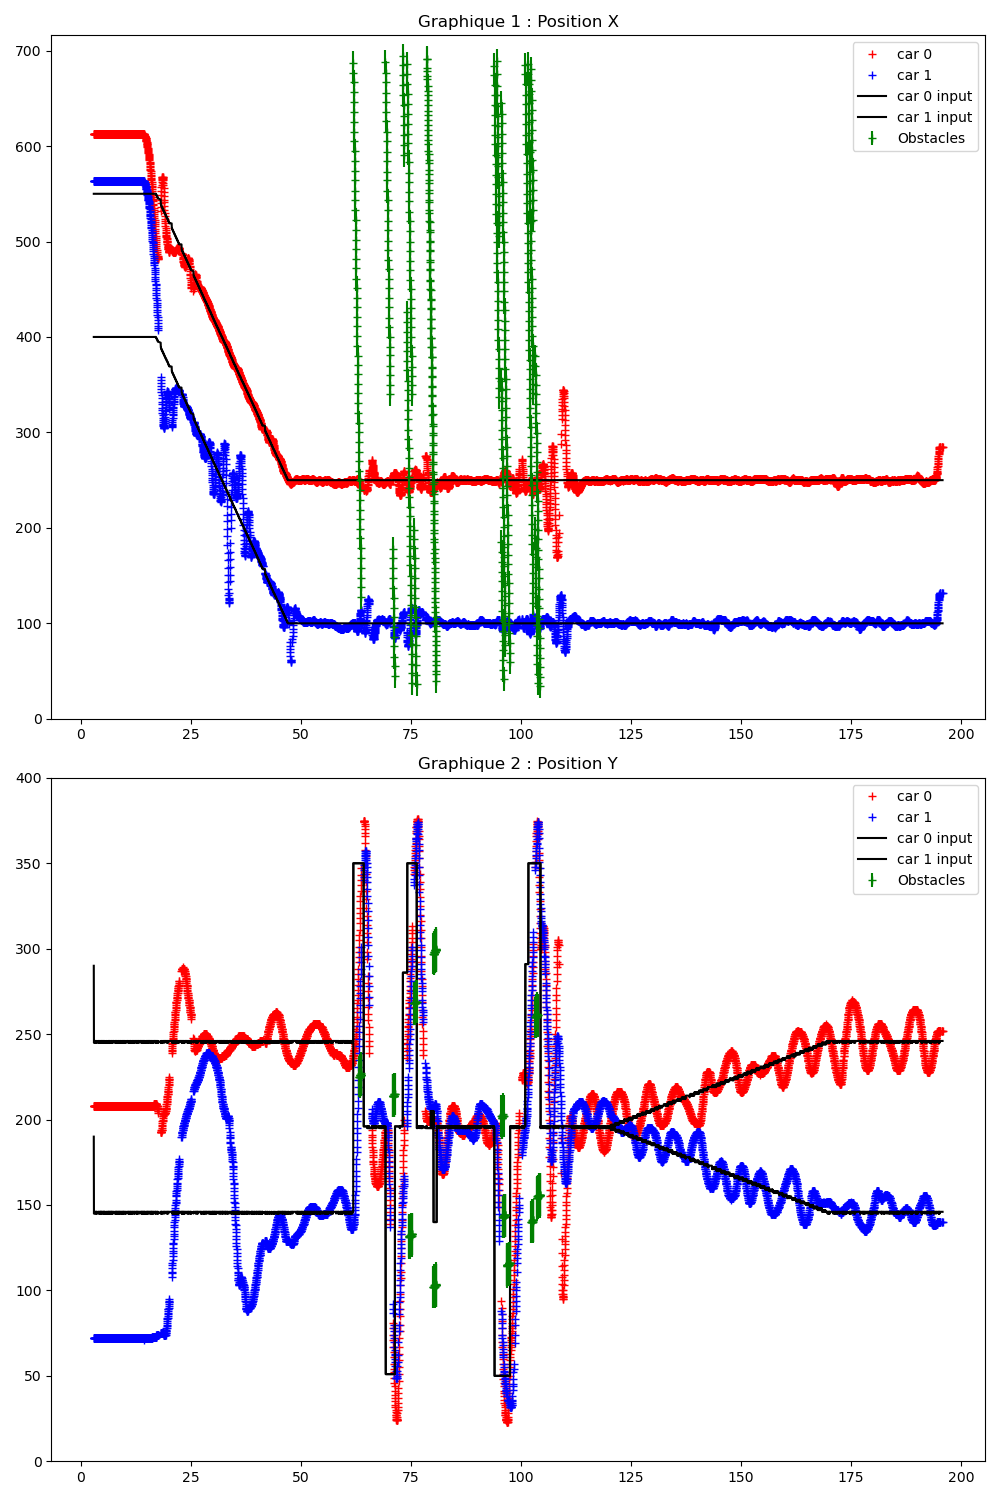
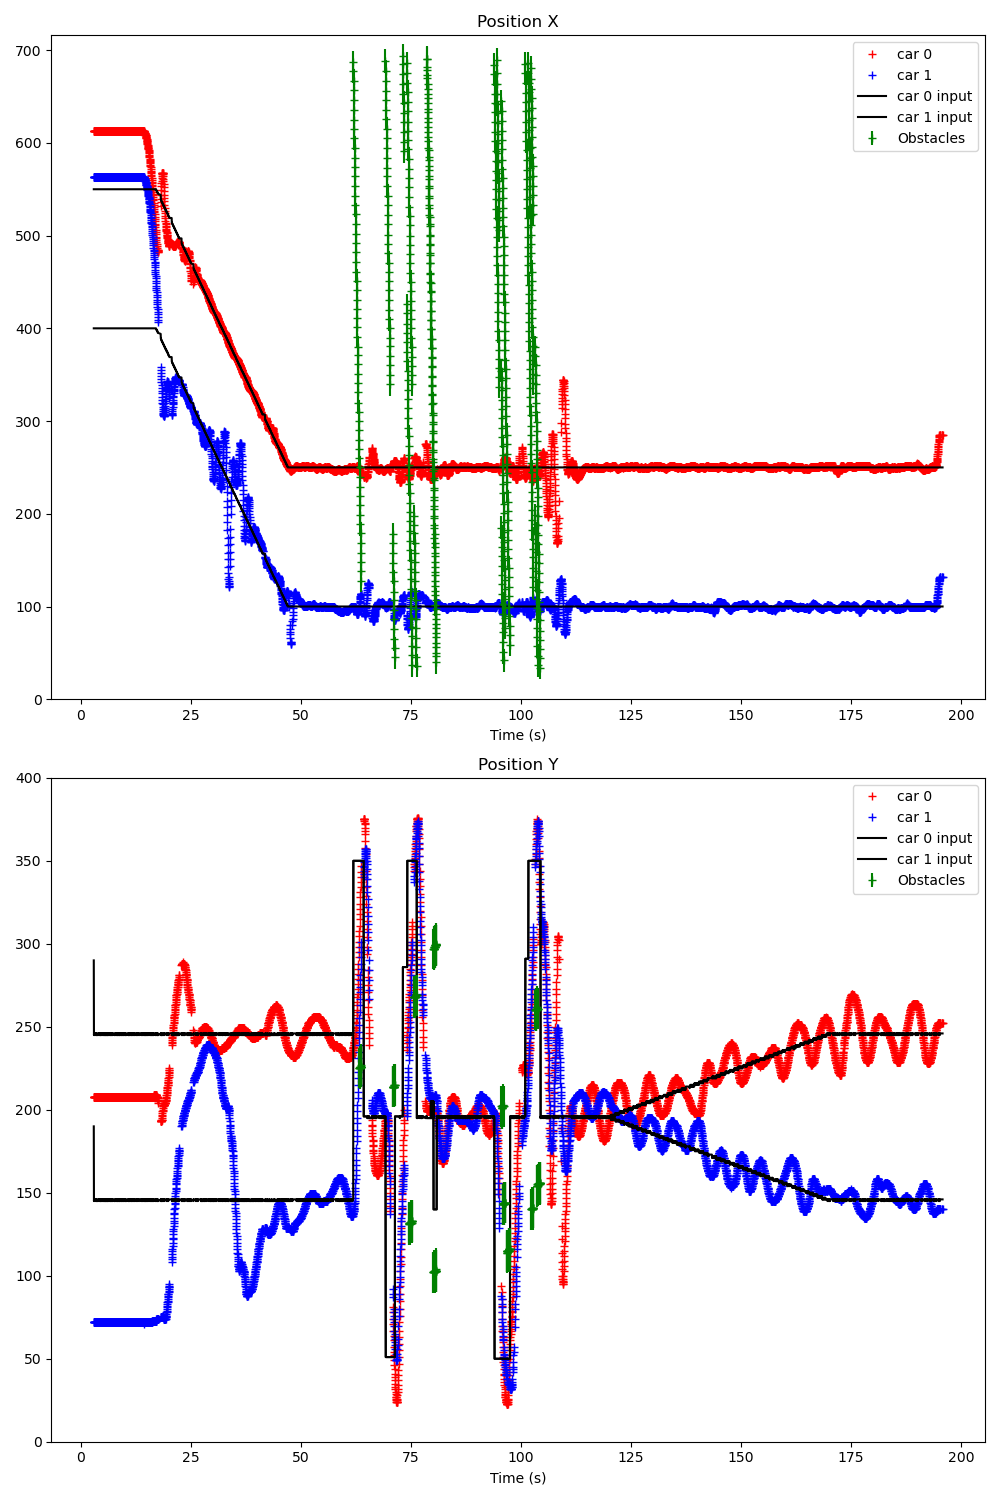
modification to plot data

diff --git a/Mesure/tracer_data2cars_with_obstacles.py b/Mesure/tracer_data2cars_with_obstacles.py
@@ -121,8 +121,9 @@ def tracer(path,aff=True):
     ax1.plot(Lt1input, Lx1input, 'k', label='car 1 input')
     ax1.errorbar(LtxObstacles, LObstaclesx, yerr=LdimxObstacles, color='g', fmt='+', capsize=0, label='Obstacles')
     ax1.set_ylim(0, 716)
+    ax1.set_xlabel("Time (s)")
     ax1.legend()
-    ax1.set_title('Graphique 1 : Position X')
+    ax1.set_title('Position X')
 
     # Deuxième sous-graphe
     ax2.plot(Lt0, Ly0, '+r', label='car 0')
@@ -133,8 +134,9 @@ def tracer(path,aff=True):
     ax2.plot(Lt1input, Ly1input, 'k', label='car 1 input')
     ax2.errorbar(LtyObstacles, LObstaclesy, yerr=LdimyObstacles, color='g', fmt='+', capsize=0, label='Obstacles')
     ax2.set_ylim(0, 400)
+    ax2.set_xlabel("Time (s)")
     ax2.legend()
-    ax2.set_title('Graphique 2 : Position Y')
+    ax2.set_title('Position Y')
 
     # Troisième sous-graphe
     # ax3.plot(Lt0command, Lspeed0, '+r', label='car 0')

diff --git a/ros2_jf_waterloo/src/jf_package_waterloo/jf_package_waterloo/avoiding_obstacles_node.py b/ros2_jf_waterloo/src/jf_package_waterloo/jf_package_waterloo/avoiding_obstacles_node.py
@@ -113,7 +113,7 @@ class Input(Node):
             # self.get_logger().info("No obstacles detected") 
             if len(self.Lkeys)==1:
                 self.Linput=[self.Lkeys[0],Xmin,Ymiddle]
-                return
+                return 
             
             self.Linput=[]
             self.Lkeys.sort()
